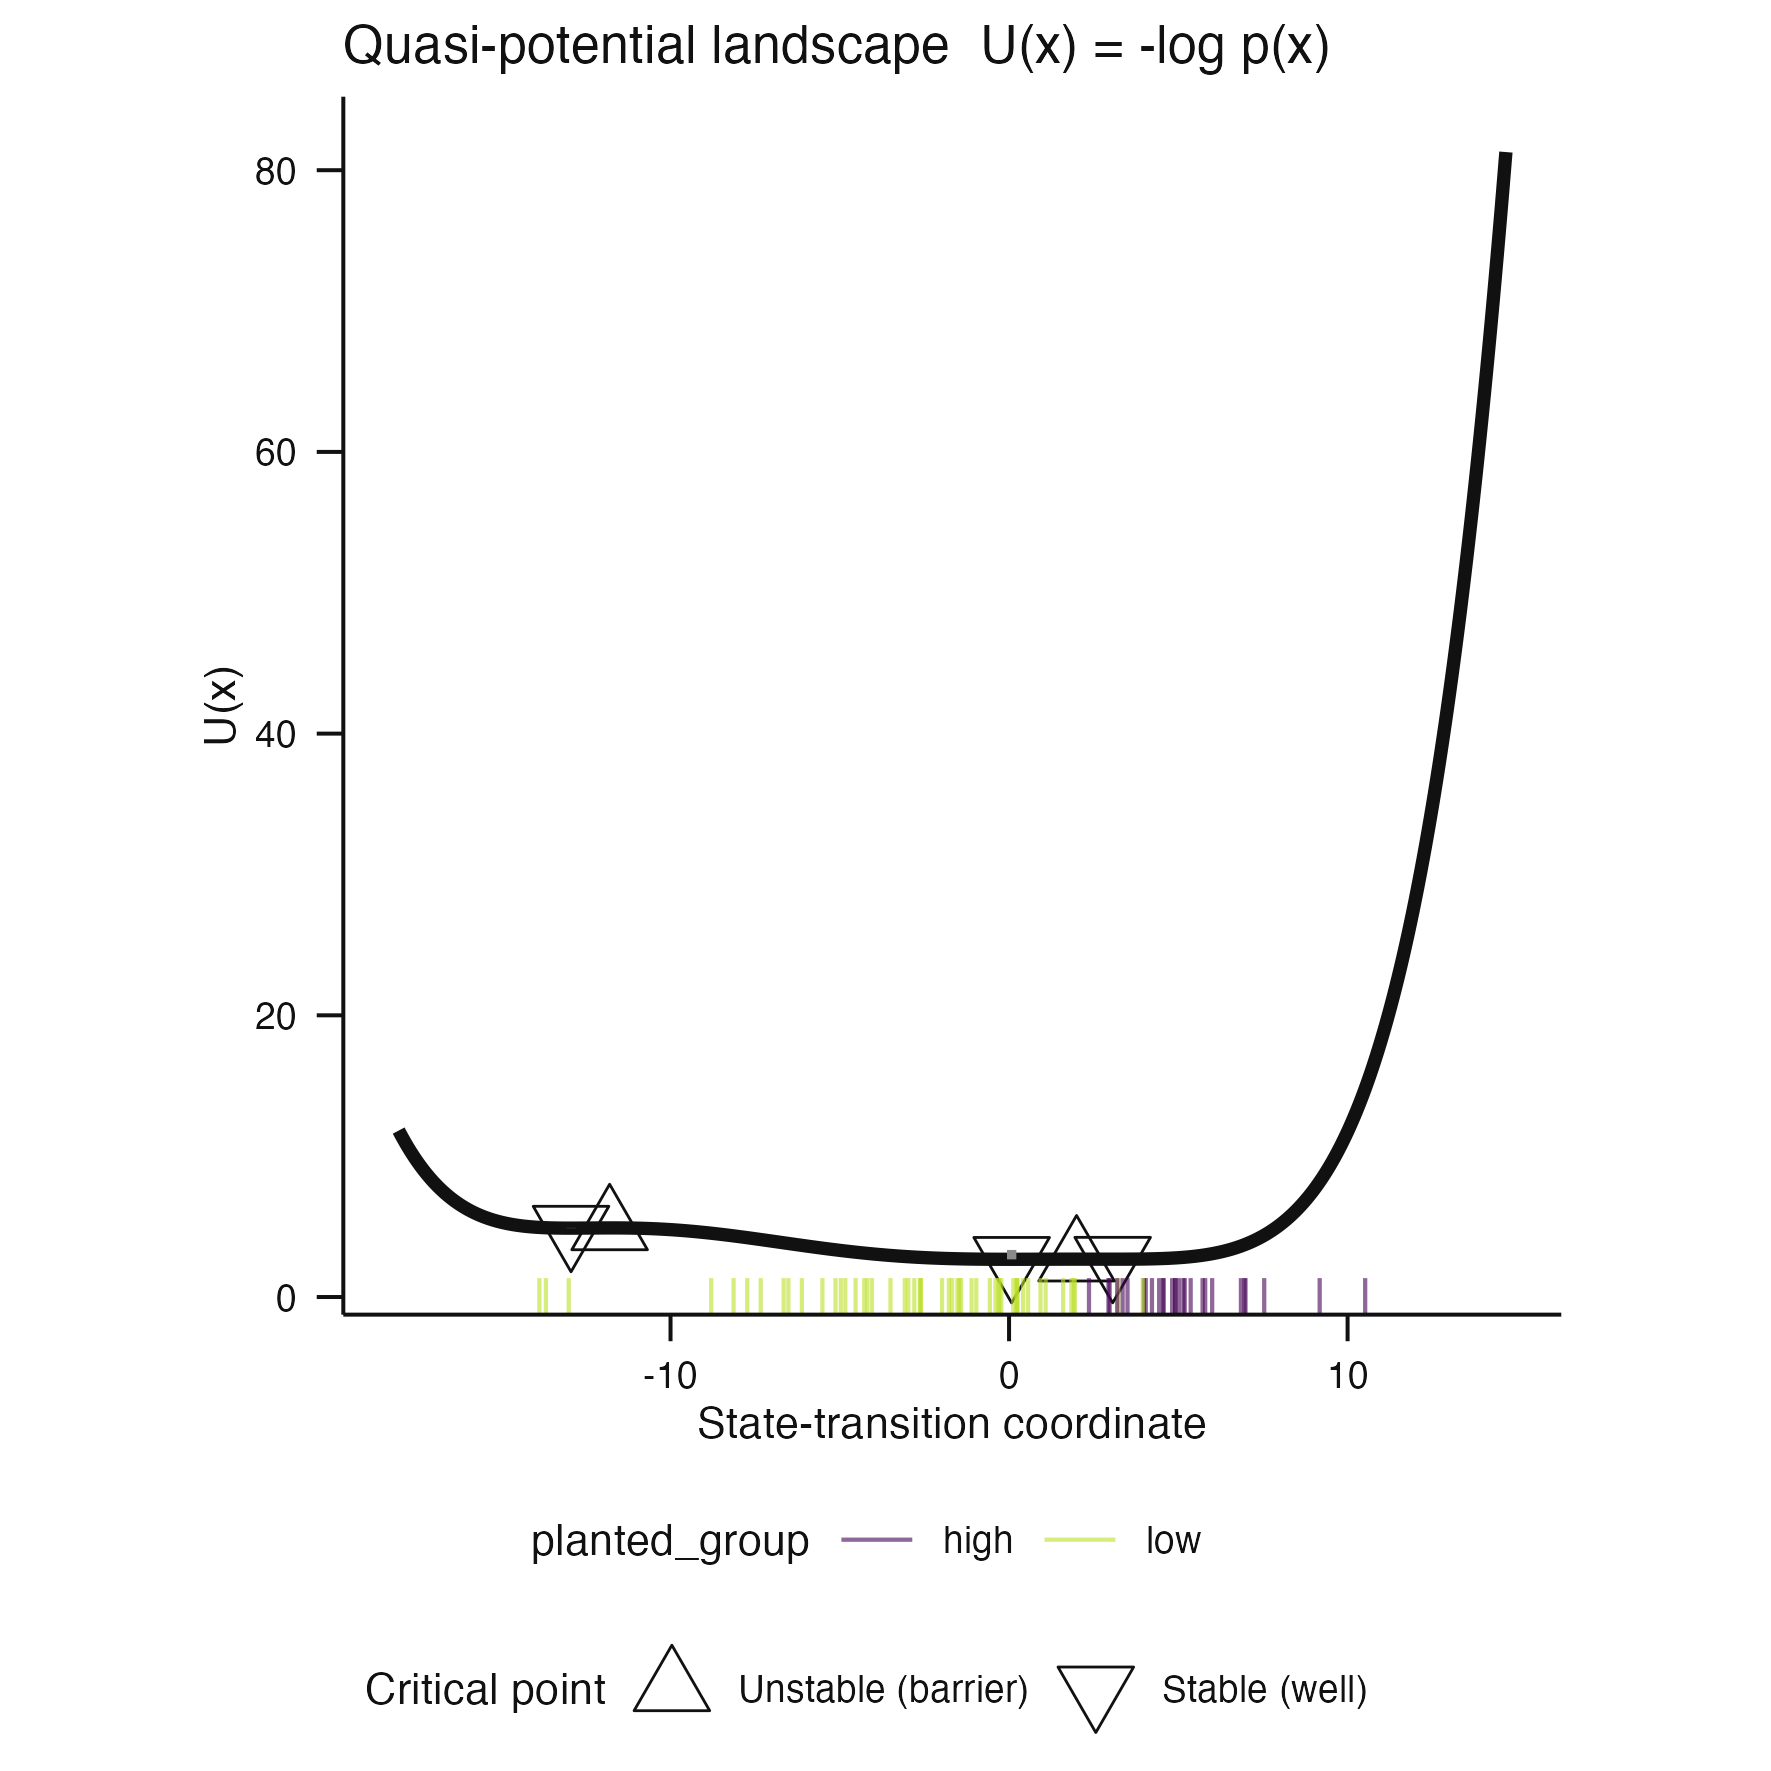
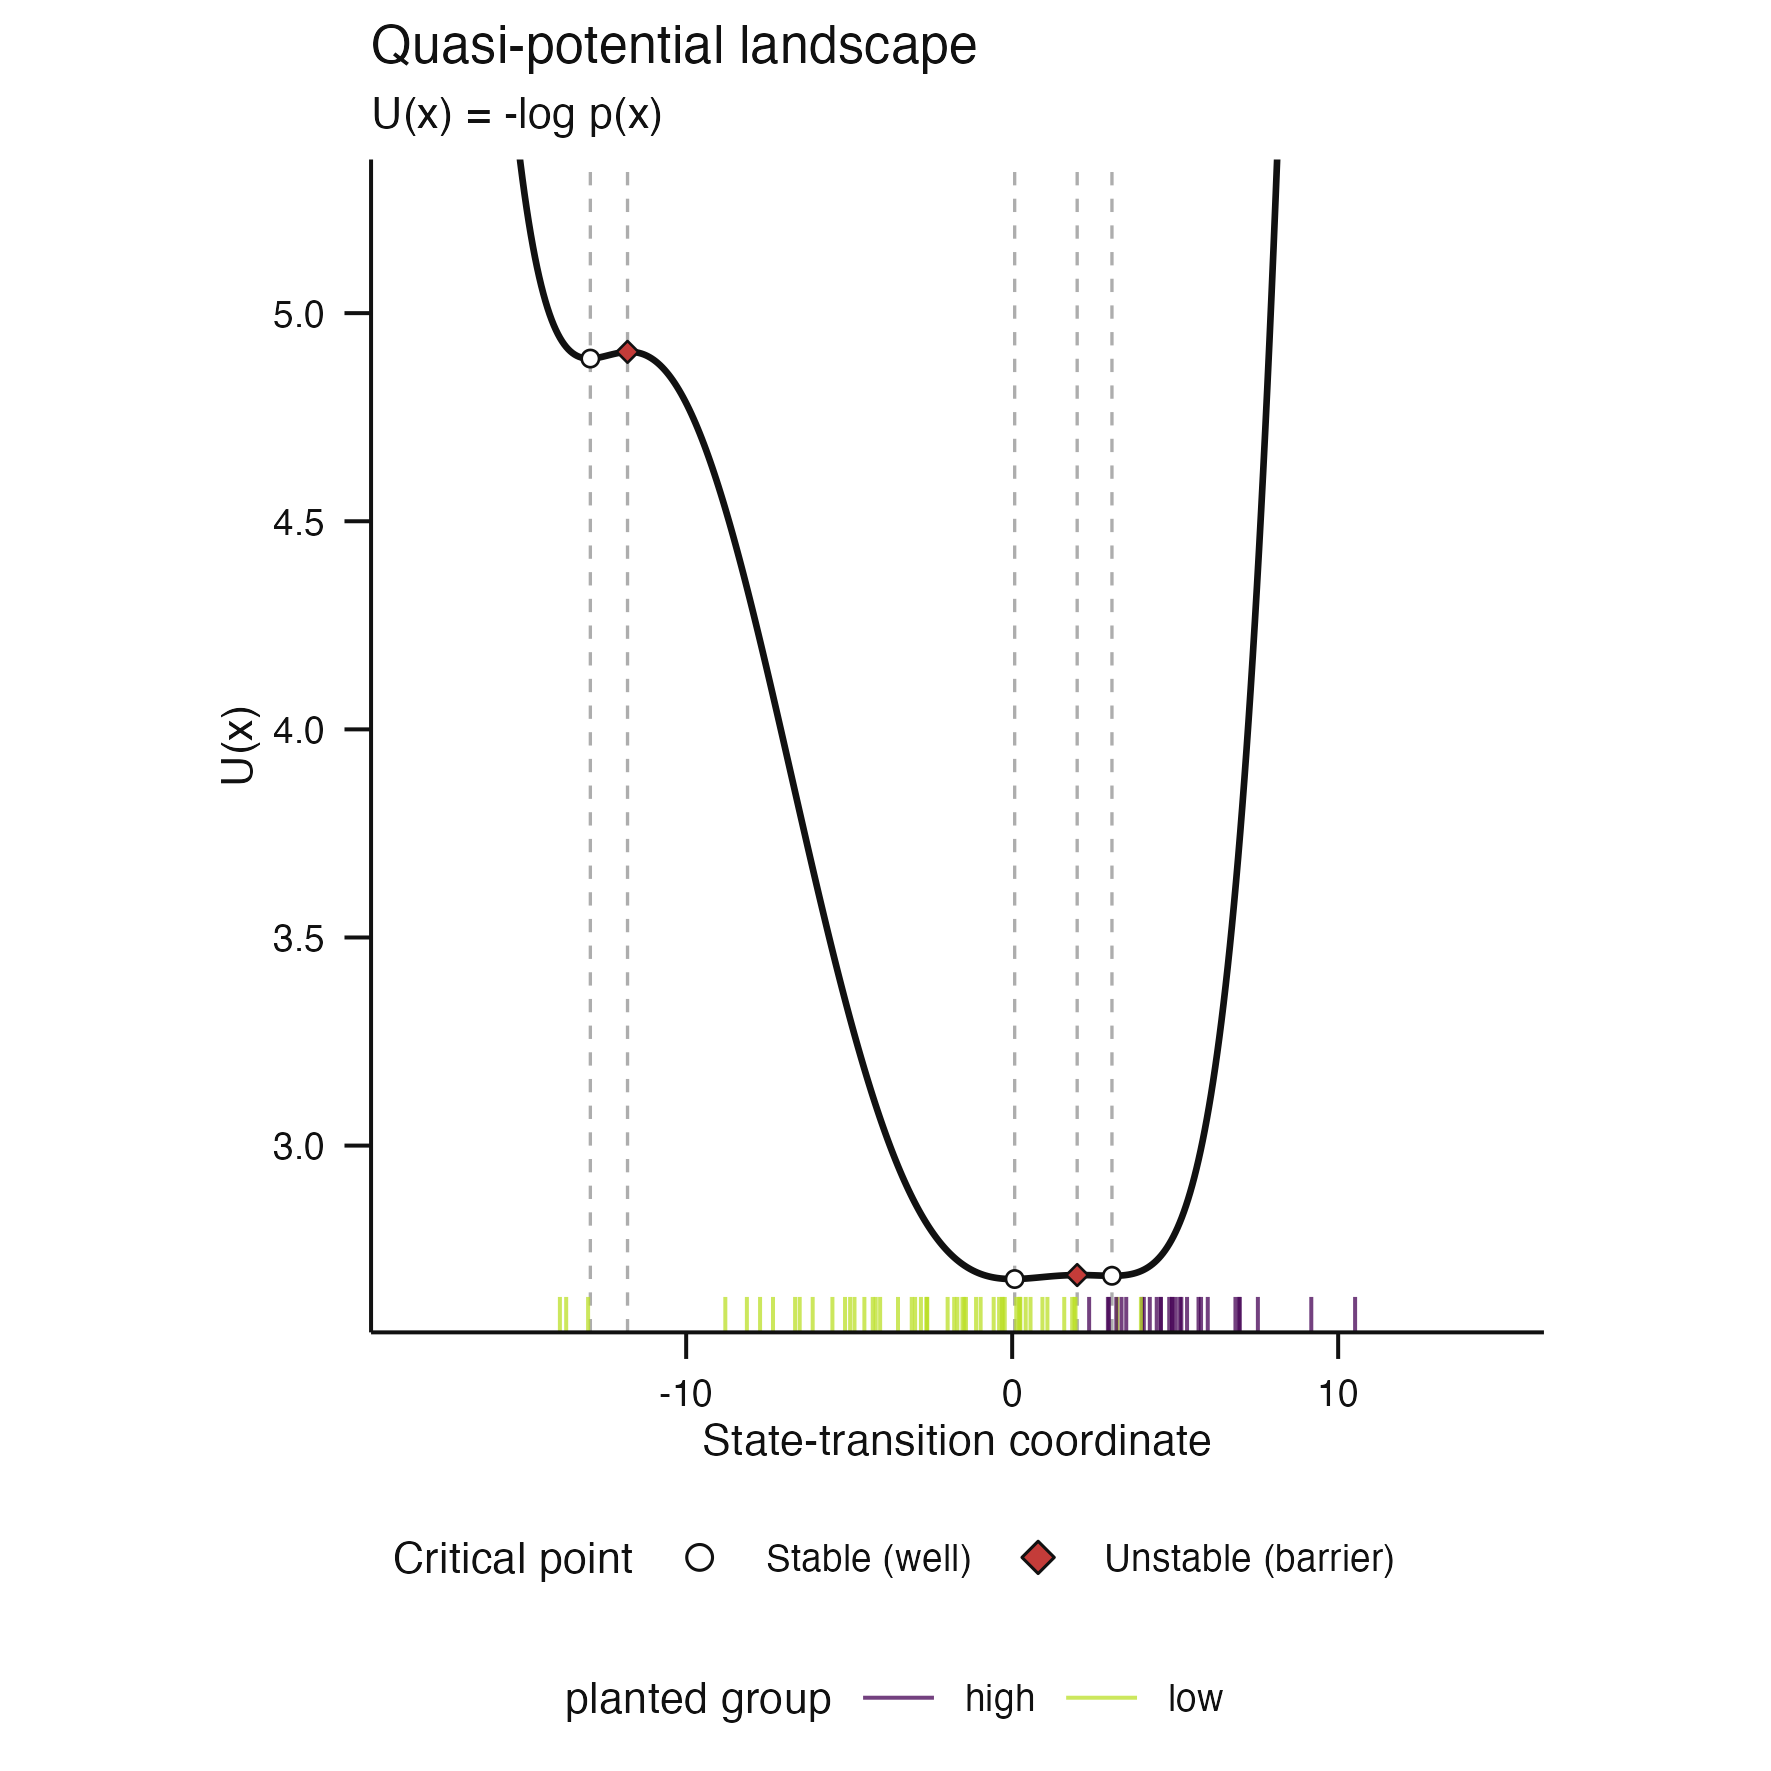
Synchronize contact-sheet stage plot artifacts

diff --git a/.github/landing-proof/issue-232/README.md b/.github/landing-proof/issue-232/README.md
@@ -6,6 +6,8 @@ collided across tile boundaries at reduced reading size.
 The after image uses concise tile-local labels and suppresses only the
 underlying plot subtitles in the audit sheet. Full scientific captions remain
 in the issue #226 inventory and separate caption files.
+The retained Stage 1 and Stage 2 figures and captions are synchronized with the
+recent accessible-encoding plot update already present on `main`.
 
 The reduced after image is the required smaller-dimension QA render. The
 label manifest records the bounded text budget checked by the renderer and
